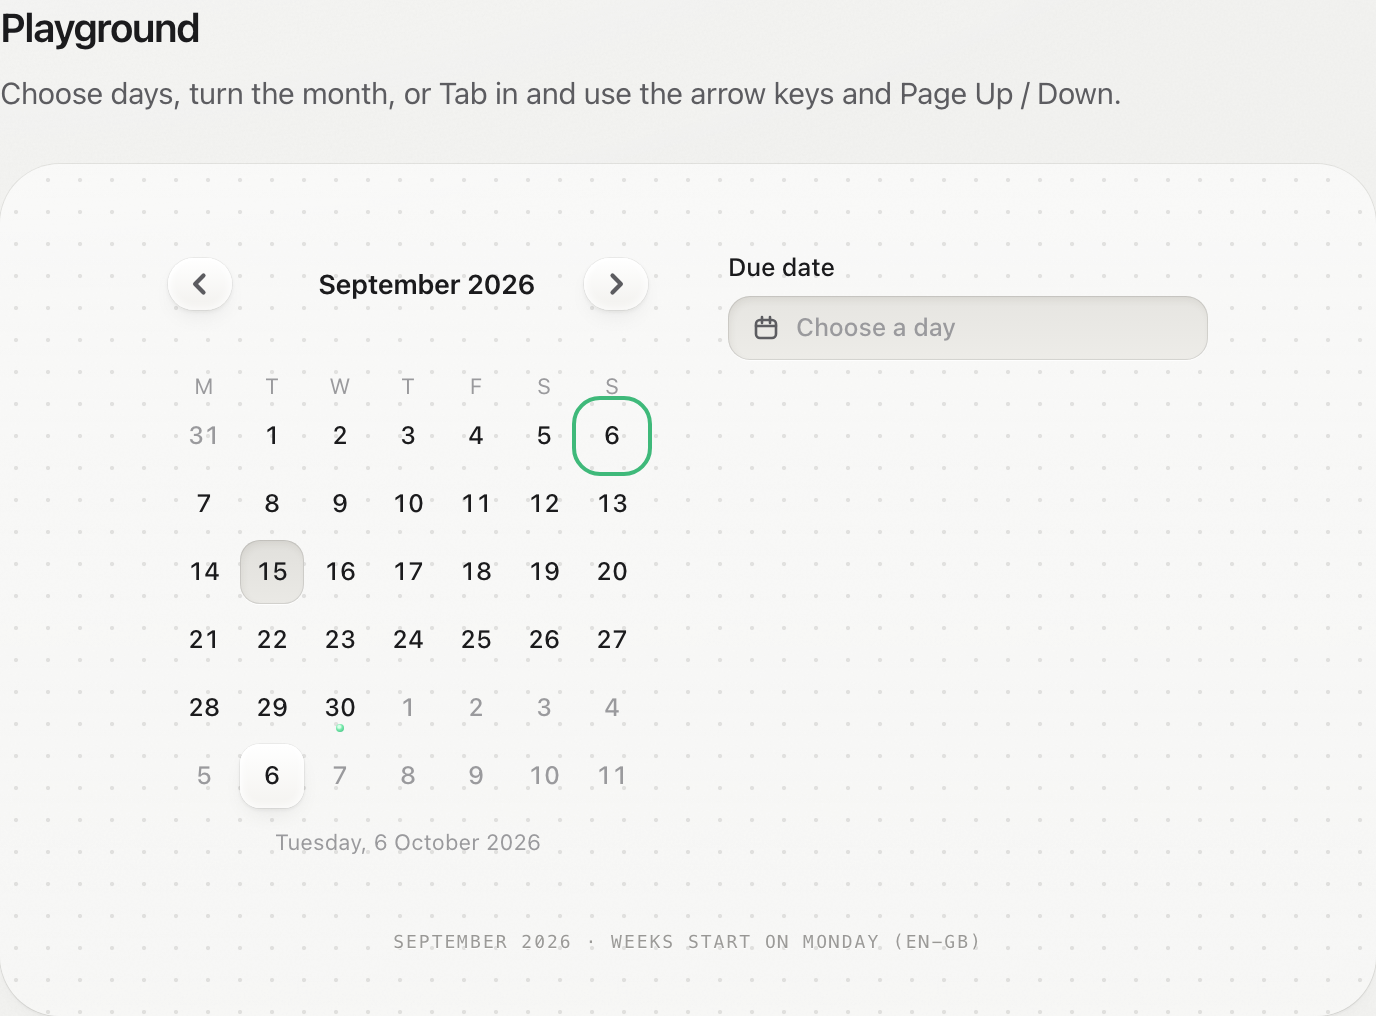
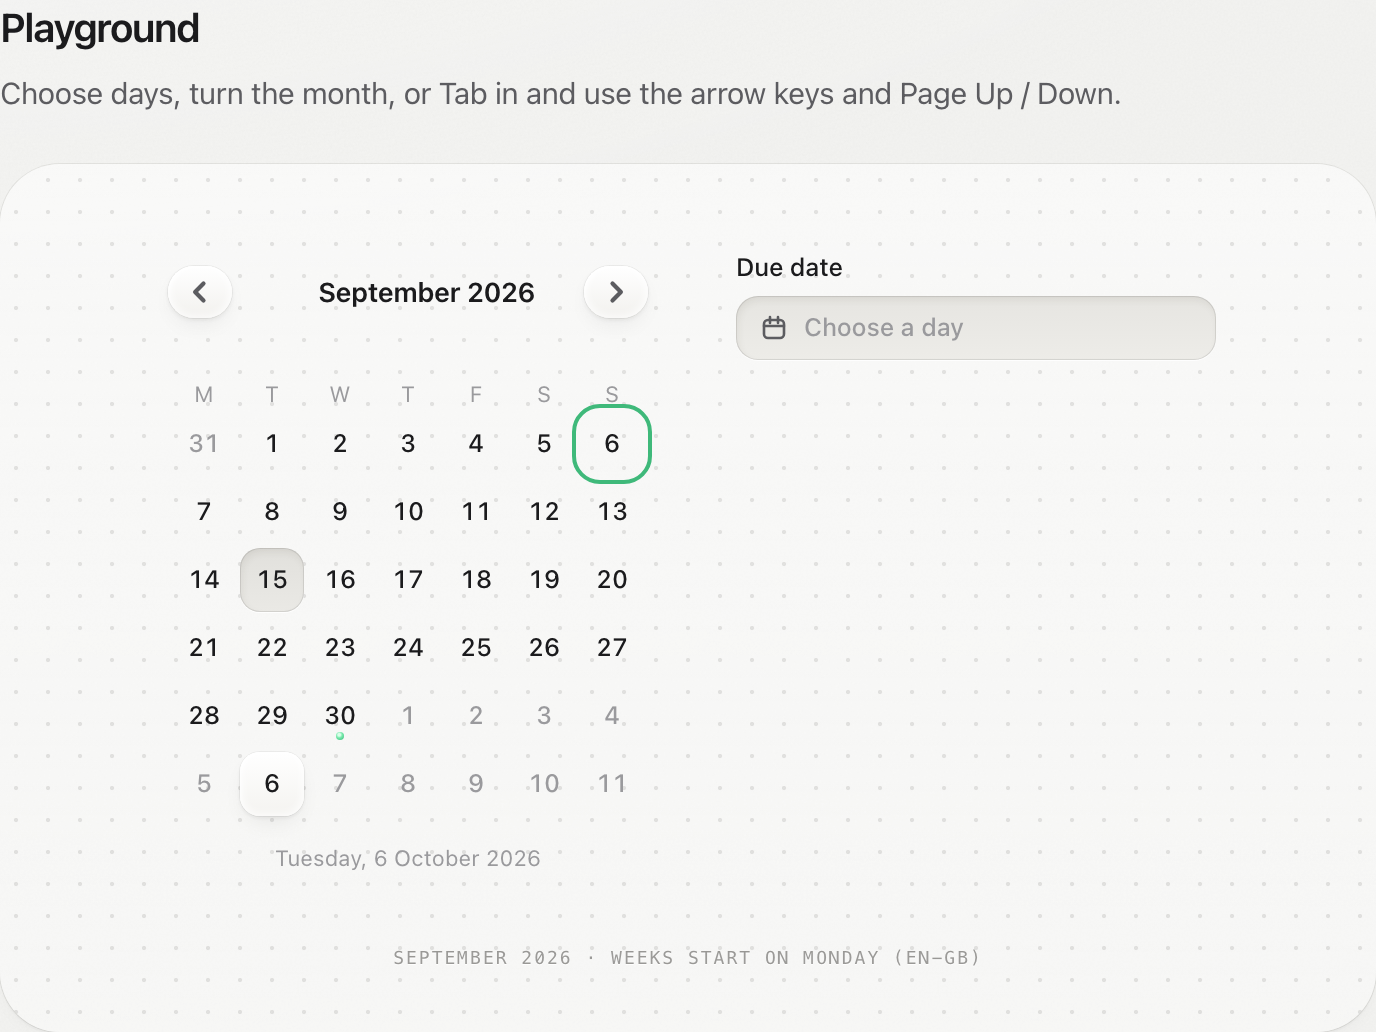
fix(calendar): use the theme's pad and disabled utilities
The recipe's self part is named without 'self' in its utilities; the grid's
padding and the disabled day's opacity used the wrong names, so the utility
check failed and the build with it.

diff --git a/packages/metalui/src/components/calendar/calendar.tsx b/packages/metalui/src/components/calendar/calendar.tsx
@@ -45,7 +45,7 @@ function weekStartOf(locale?: string) {
   }
 }
 
-const ROOT = 'mu-calendar inline-grid gap-calendar-head-gap p-calendar-self-pad select-none';
+const ROOT = 'mu-calendar inline-grid gap-calendar-head-gap p-calendar-pad select-none';
 const HEAD = 'mu-calendar-head flex items-center justify-between gap-calendar-head-gap h-calendar-head-height';
 const TITLE = 'mu-calendar-title type-title text-ink';
 const STEP = `${buttonClasses('standard', 'compact')} mu-calendar-step px-0! w-calendar-head-height justify-center`;
@@ -53,7 +53,7 @@ const GRID_WRAP = 'mu-calendar-body relative';
 const TABLE = 'mu-calendar-grid calendar-grid';
 const WEEKDAY = 'mu-calendar-weekday size-calendar-day-size p-0 type-meta text-ink3 text-center';
 const CELL = 'p-0';
-const DAY = 'mu-calendar-day relative z-1 grid place-items-center size-calendar-day-size rounded-calendar-day-radius border-0 bg-transparent type-ui tabular-nums text-ink cursor-pointer outline-none transition-row hover:not-data-selected:recipe-switcher data-selected:recipe-switcher-thumb data-selected:text-ink data-selected:calendar-land focus-visible:focus-ring data-outside:text-ink3 disabled:opacity-calendar-self-disabled disabled:cursor-default data-today:calendar-today';
+const DAY = 'mu-calendar-day relative z-1 grid place-items-center size-calendar-day-size rounded-calendar-day-radius border-0 bg-transparent type-ui tabular-nums text-ink cursor-pointer outline-none transition-row hover:not-data-selected:recipe-switcher data-selected:recipe-switcher-thumb data-selected:text-ink data-selected:calendar-land focus-visible:focus-ring data-outside:text-ink3 disabled:opacity-calendar-disabled disabled:cursor-default data-today:calendar-today';
 
 export interface CalendarProps {
   value?: Date | null;
